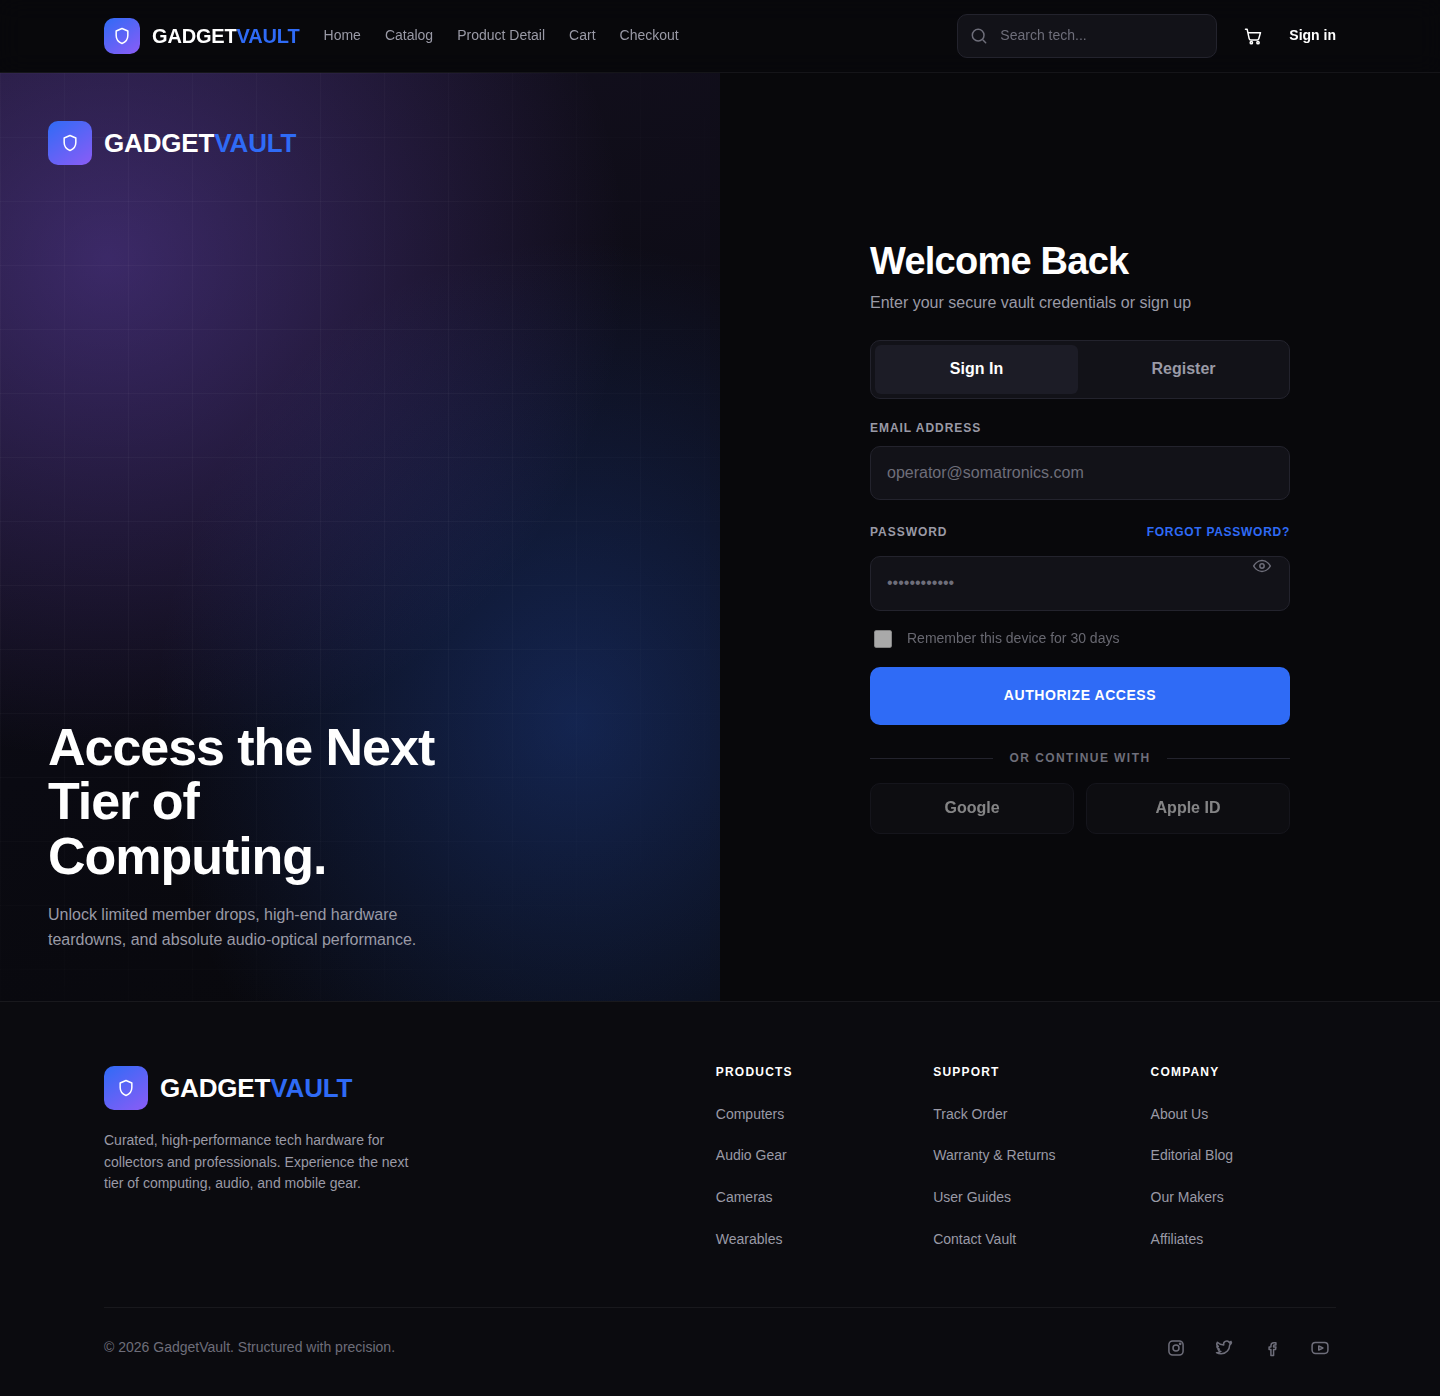
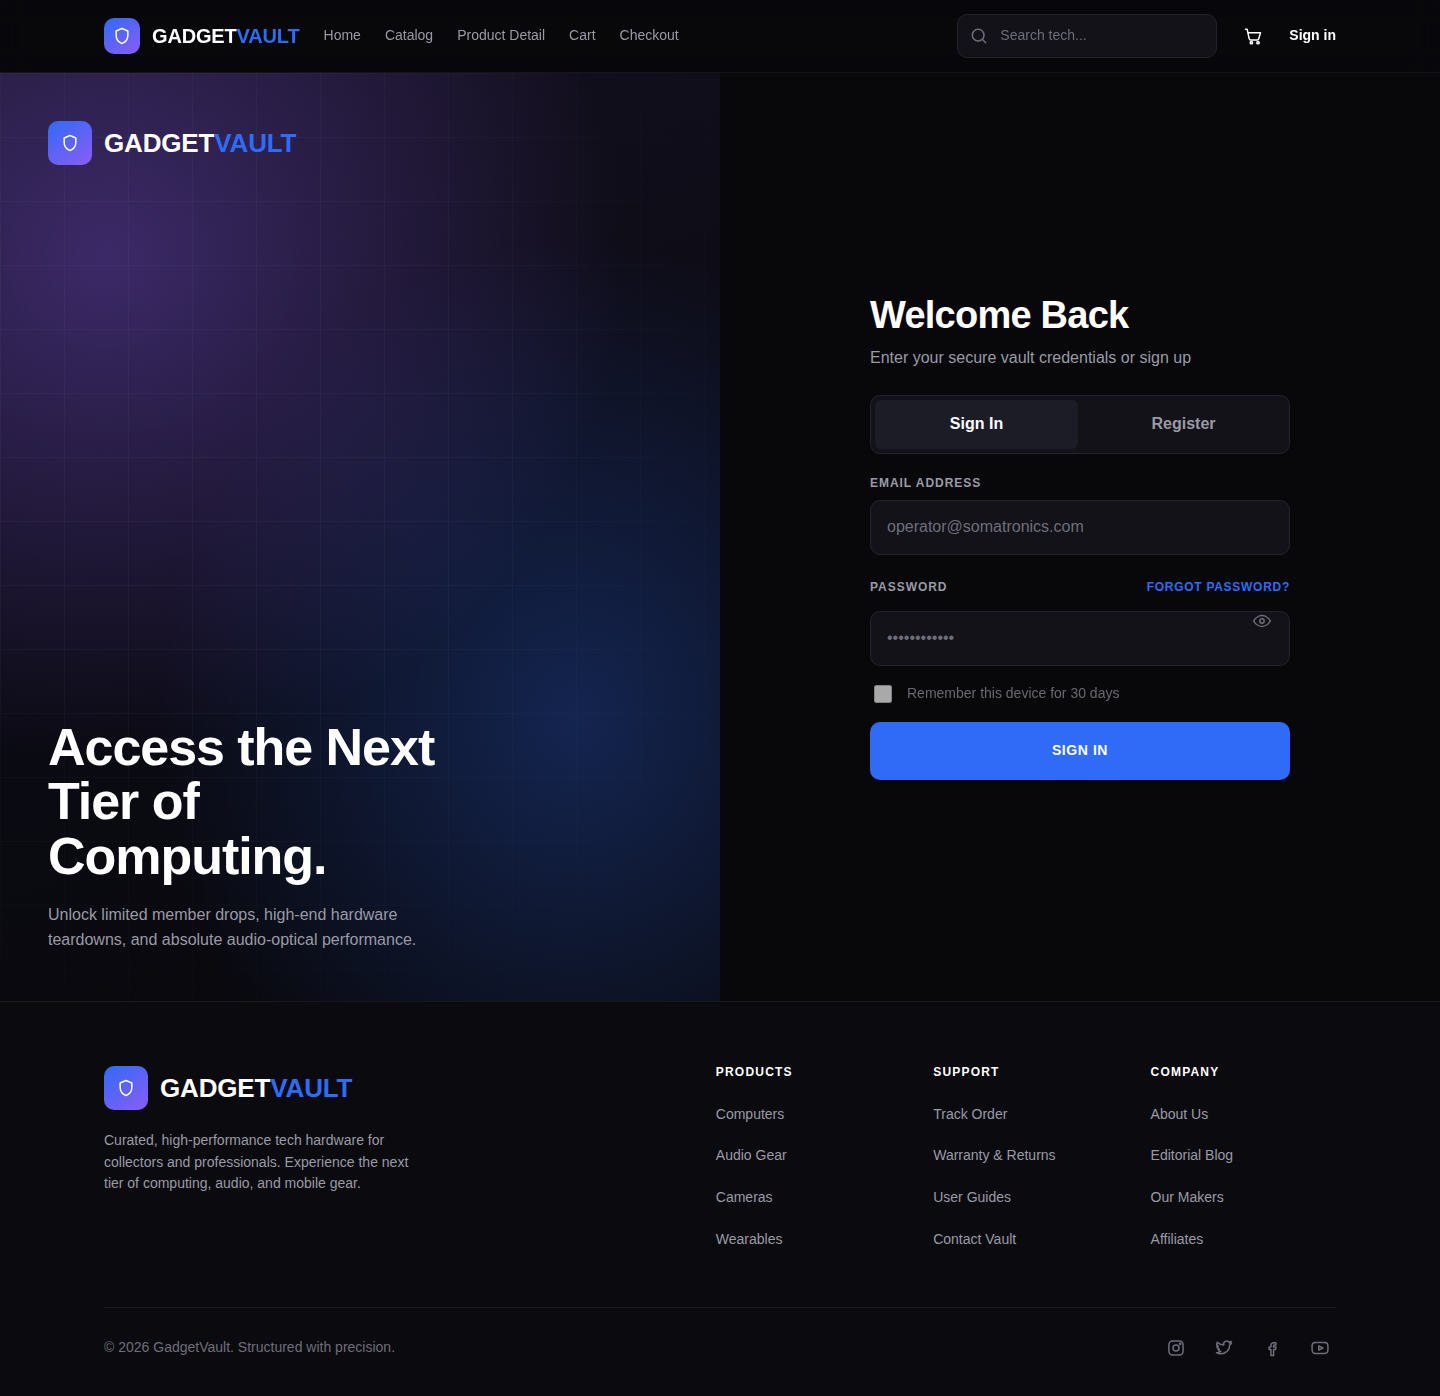
login page issue fix

Changed region(s): [[0.5938, 0.154, 0.9062, 0.5852], [0.7812, 0.3696, 0.9062, 0.4312]]

diff --git a/client/src/pages/LoginPage.css b/client/src/pages/LoginPage.css
@@ -120,37 +120,6 @@
 .gv-auth__remember input { width: 18px; height: 18px; accent-color: var(--gv-primary); }
 .gv-auth__remember input:disabled + span { opacity: 0.65; }
 
-.gv-auth__divider {
-  display: flex;
-  align-items: center;
-  gap: var(--gv-4);
-  margin: var(--gv-6) 0 var(--gv-4);
-  color: var(--gv-text-dim);
-  font-size: var(--gv-fs-xs);
-  font-weight: 700;
-  letter-spacing: 0.12em;
-  text-transform: uppercase;
-}
-.gv-auth__divider::before,
-.gv-auth__divider::after {
-  content: "";
-  flex: 1;
-  height: 1px;
-  background: var(--gv-border);
-}
-
-.gv-auth__oauth { display: grid; grid-template-columns: 1fr 1fr; gap: var(--gv-3); }
-.gv-auth__oauth button {
-  padding: var(--gv-3) var(--gv-4);
-  background: var(--gv-surface);
-  border: 1px solid var(--gv-border);
-  border-radius: var(--gv-r-md);
-  color: var(--gv-text);
-  font-weight: 600;
-  cursor: not-allowed;
-  opacity: 0.5;
-}
-
 @media (max-width: 980px) {
   .gv-auth { grid-template-columns: 1fr; }
   .gv-auth__hero { min-height: 260px; padding: var(--gv-8); }
@@ -159,5 +128,4 @@
 }
 @media (max-width: 520px) {
   .gv-auth__row { grid-template-columns: 1fr; }
-  .gv-auth__oauth { grid-template-columns: 1fr; }
 }

diff --git a/client/src/pages/LoginPage.jsx b/client/src/pages/LoginPage.jsx
@@ -170,18 +170,9 @@ export default function LoginPage() {
             )}
 
             <Button type="submit" size="lg" full loading={busy}>
-              {isRegister ? "Create Account" : "Authorize Access"}
+              {isRegister ? "Create Account" : "Sign In"}
             </Button>
           </form>
-
-          <div className="gv-auth__divider"><span>Or continue with</span></div>
-
-          <div className="gv-auth__oauth">
-            {/* No OAuth provider is configured on the API, so these are shown
-                as unavailable rather than as buttons that fail on click. */}
-            <button type="button" disabled title="Single sign-on is not configured for this project">Google</button>
-            <button type="button" disabled title="Single sign-on is not configured for this project">Apple ID</button>
-          </div>
         </div>
       </section>
     </div>
